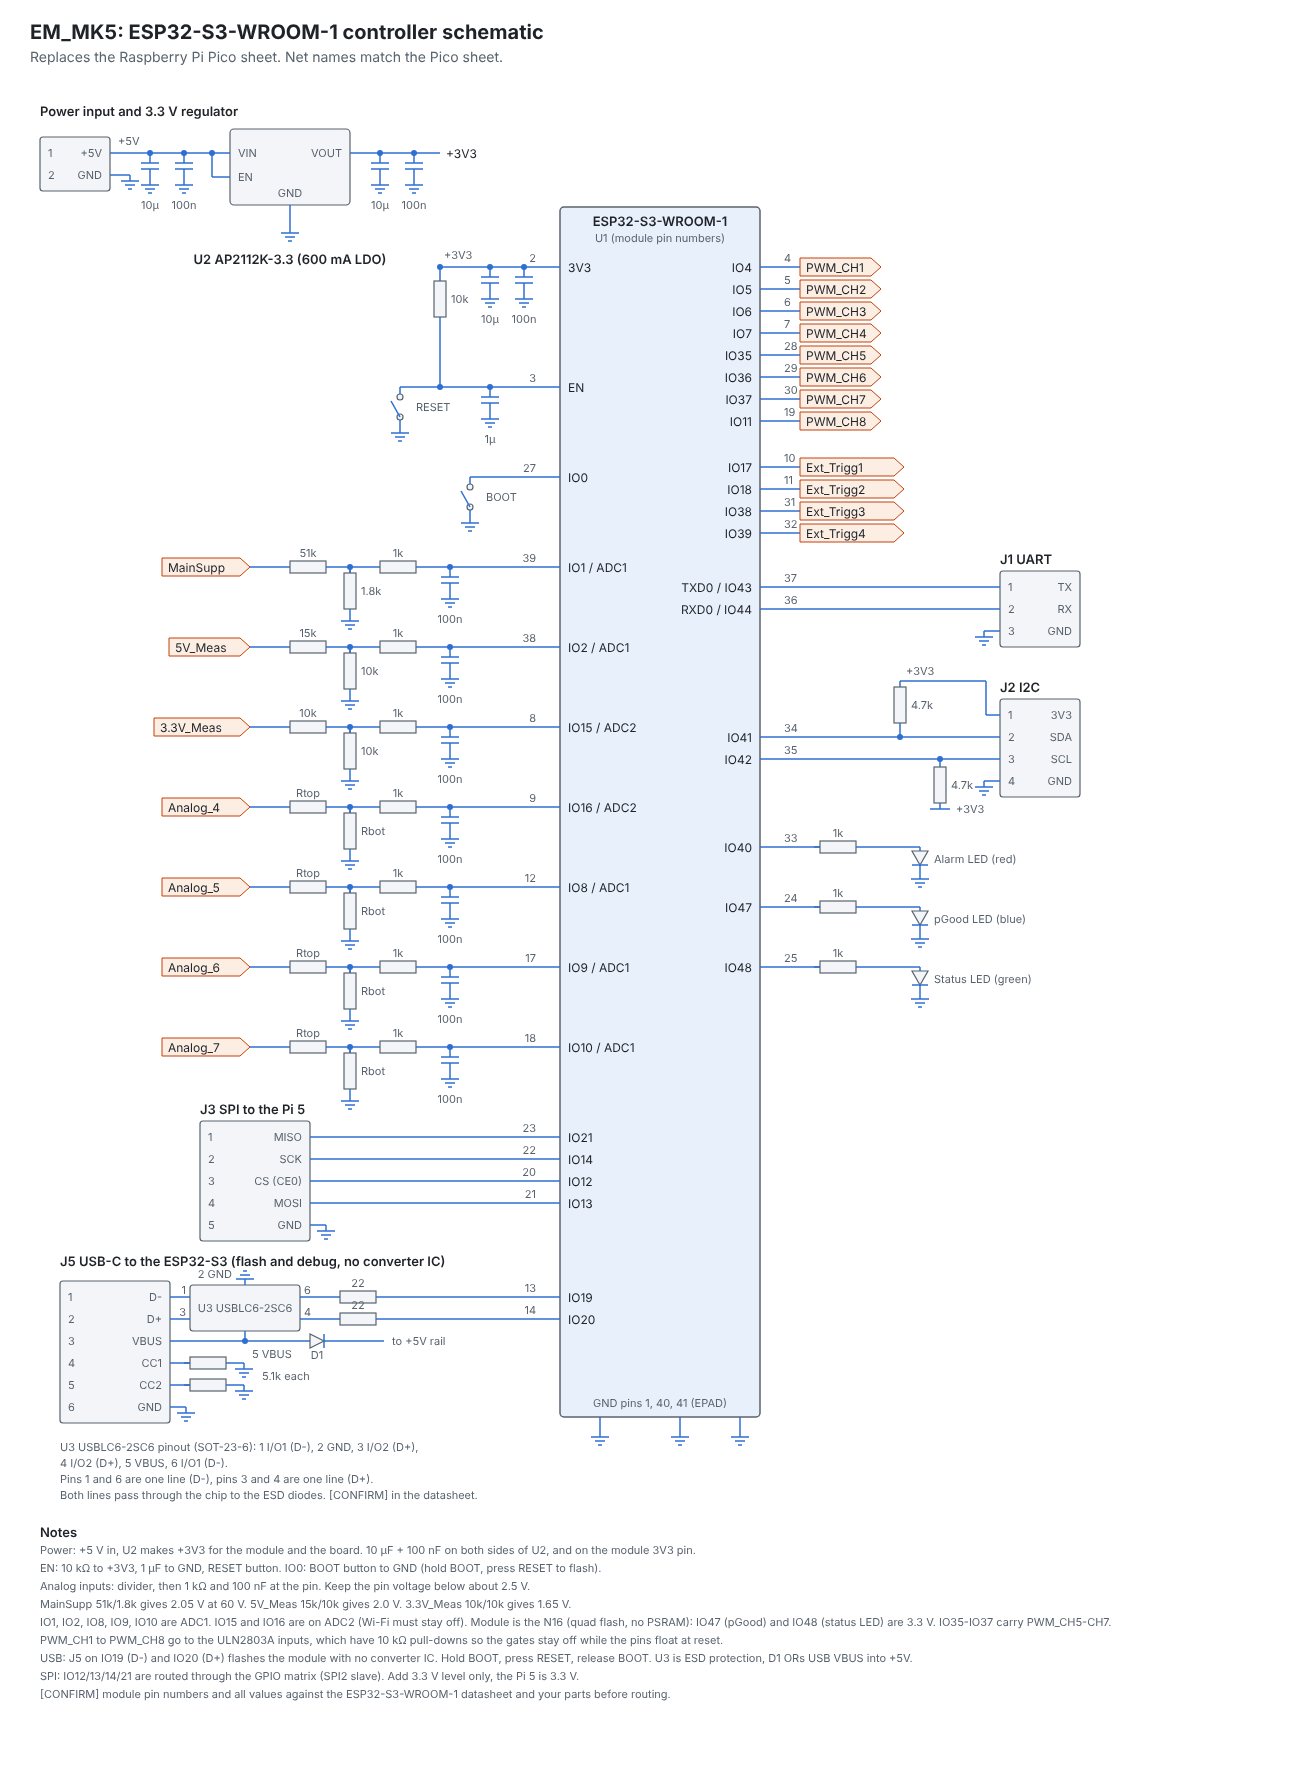
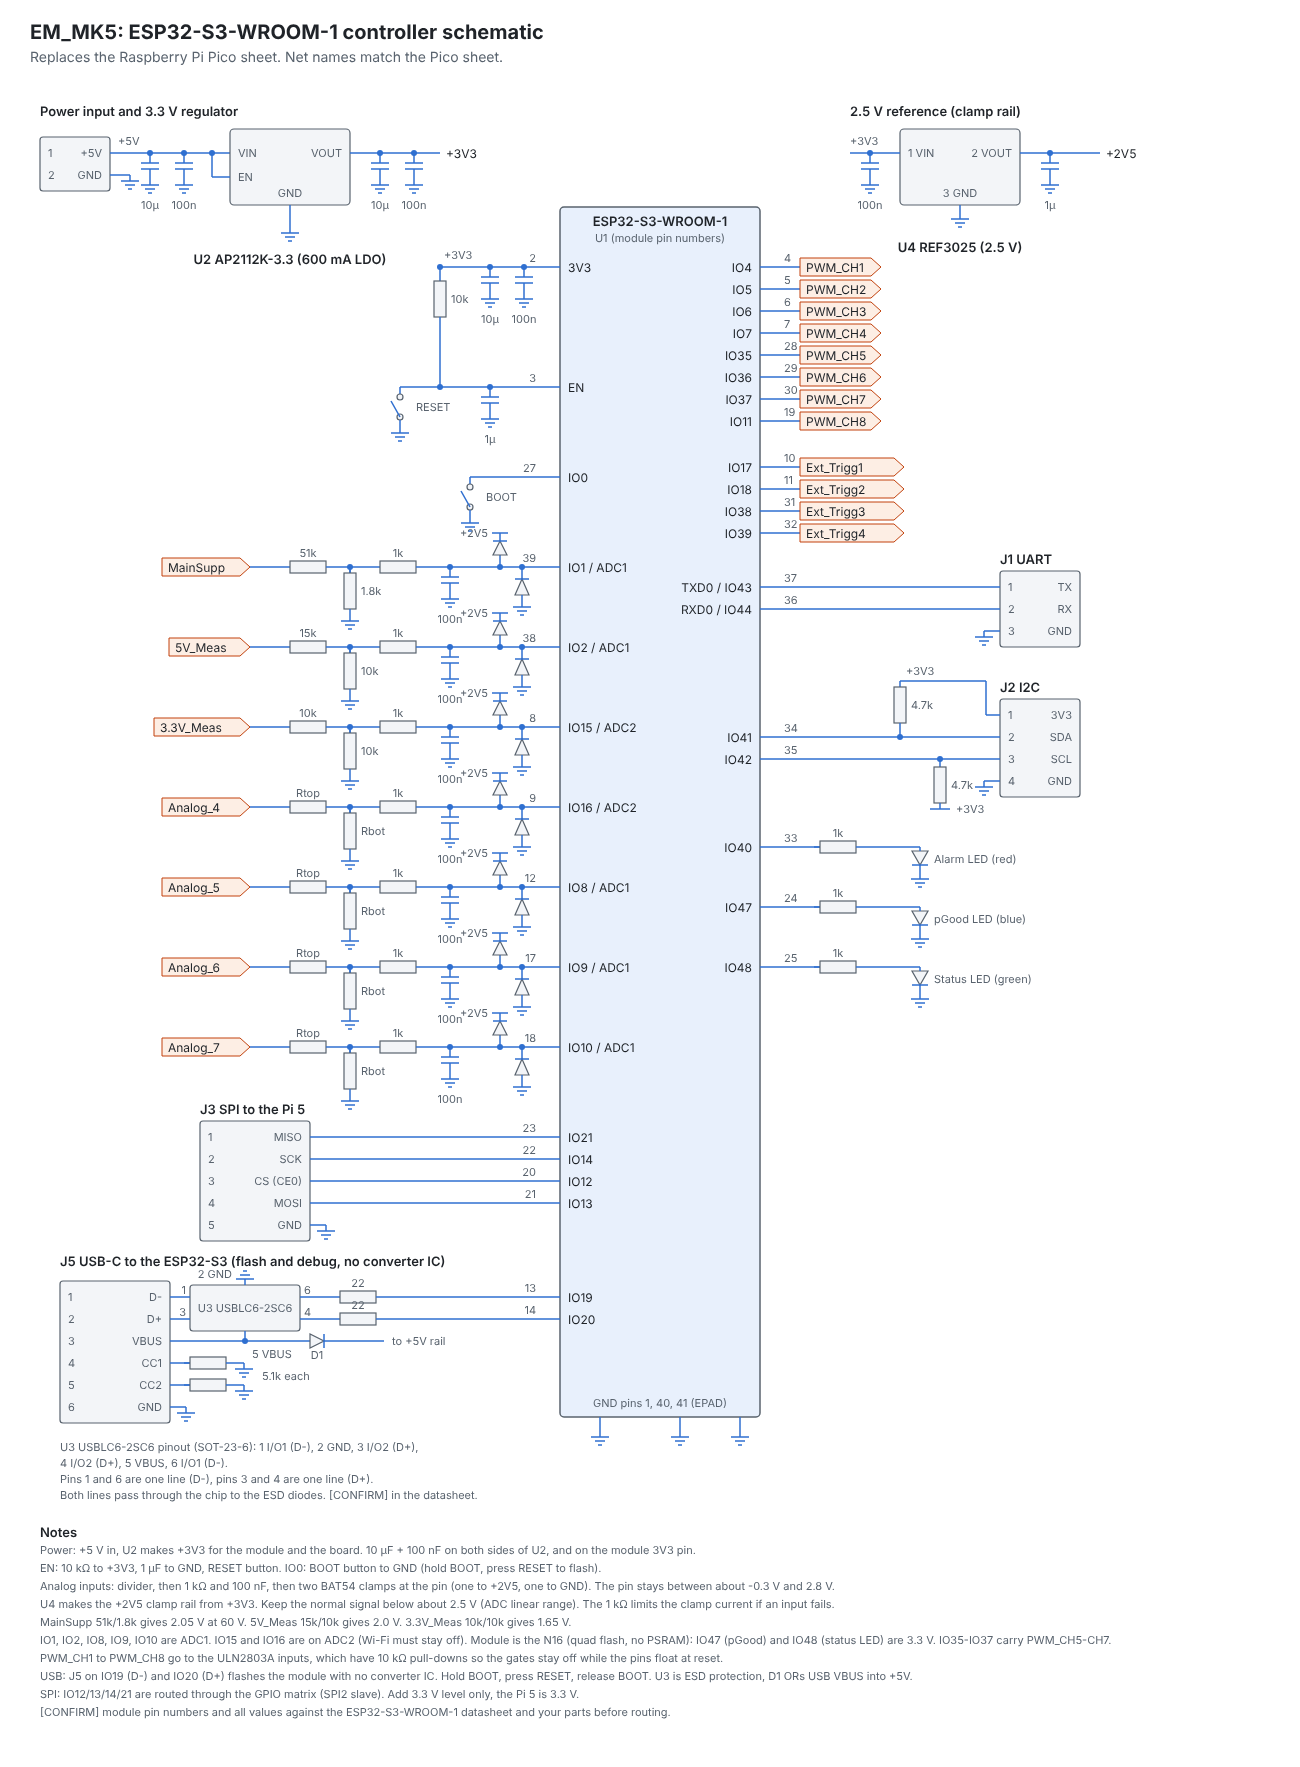
ESP32-S3 schematic: add REF3025 2.5 V clamp rail and BAT54 clamps on all analog inputs
Claude-Session: https://claude.ai/code/session_0174MNEmDaTV8DPD2QnVHENo

diff --git a/ESP32_S3_schematic.html b/ESP32_S3_schematic.html
@@ -203,6 +203,22 @@ svg{width:100%;max-width:1300px;height:auto;display:block;margin:0 auto}
 <line class="w" x1="445" y1="526" x2="455" y2="526"/>
 <line class="w" x1="448" y1="530" x2="452" y2="530"/>
 <text class="s" x="450" y="542" text-anchor="middle" dominant-baseline="central">100n</text>
+<circle class="d" cx="500" cy="490" r="3"/>
+<circle class="d" cx="522" cy="490" r="3"/>
+<line class="w" x1="522" y1="490" x2="522" y2="502"/>
+<polygon class="c" points="515,518 529,518 522,502"/>
+<line class="w" x1="515" y1="502" x2="529" y2="502"/>
+<line class="w" x1="522" y1="518" x2="522" y2="524"/>
+<line class="w" x1="522" y1="524" x2="522" y2="530"/>
+<line class="w" x1="513" y1="530" x2="531" y2="530"/>
+<line class="w" x1="517" y1="534" x2="527" y2="534"/>
+<line class="w" x1="520" y1="538" x2="524" y2="538"/>
+<line class="w" x1="500" y1="490" x2="500" y2="478"/>
+<polygon class="c" points="493,478 507,478 500,464"/>
+<line class="w" x1="493" y1="464" x2="507" y2="464"/>
+<line class="w" x1="500" y1="464" x2="500" y2="456"/>
+<line class="w" x1="492" y1="456" x2="508" y2="456"/>
+<text class="s" x="488" y="456" text-anchor="end" dominant-baseline="central">+2V5</text>
 <line class="w" x1="540" y1="570" x2="560" y2="570"/>
 <text class="t" x="568" y="570" text-anchor="start" dominant-baseline="central">IO2 / ADC1</text>
 <text class="s" x="536" y="561" text-anchor="end" dominant-baseline="central">38</text>
@@ -239,6 +255,22 @@ svg{width:100%;max-width:1300px;height:auto;display:block;margin:0 auto}
 <line class="w" x1="445" y1="606" x2="455" y2="606"/>
 <line class="w" x1="448" y1="610" x2="452" y2="610"/>
 <text class="s" x="450" y="622" text-anchor="middle" dominant-baseline="central">100n</text>
+<circle class="d" cx="500" cy="570" r="3"/>
+<circle class="d" cx="522" cy="570" r="3"/>
+<line class="w" x1="522" y1="570" x2="522" y2="582"/>
+<polygon class="c" points="515,598 529,598 522,582"/>
+<line class="w" x1="515" y1="582" x2="529" y2="582"/>
+<line class="w" x1="522" y1="598" x2="522" y2="604"/>
+<line class="w" x1="522" y1="604" x2="522" y2="610"/>
+<line class="w" x1="513" y1="610" x2="531" y2="610"/>
+<line class="w" x1="517" y1="614" x2="527" y2="614"/>
+<line class="w" x1="520" y1="618" x2="524" y2="618"/>
+<line class="w" x1="500" y1="570" x2="500" y2="558"/>
+<polygon class="c" points="493,558 507,558 500,544"/>
+<line class="w" x1="493" y1="544" x2="507" y2="544"/>
+<line class="w" x1="500" y1="544" x2="500" y2="536"/>
+<line class="w" x1="492" y1="536" x2="508" y2="536"/>
+<text class="s" x="488" y="536" text-anchor="end" dominant-baseline="central">+2V5</text>
 <line class="w" x1="540" y1="650" x2="560" y2="650"/>
 <text class="t" x="568" y="650" text-anchor="start" dominant-baseline="central">IO15 / ADC2</text>
 <text class="s" x="536" y="641" text-anchor="end" dominant-baseline="central">8</text>
@@ -275,6 +307,22 @@ svg{width:100%;max-width:1300px;height:auto;display:block;margin:0 auto}
 <line class="w" x1="445" y1="686" x2="455" y2="686"/>
 <line class="w" x1="448" y1="690" x2="452" y2="690"/>
 <text class="s" x="450" y="702" text-anchor="middle" dominant-baseline="central">100n</text>
+<circle class="d" cx="500" cy="650" r="3"/>
+<circle class="d" cx="522" cy="650" r="3"/>
+<line class="w" x1="522" y1="650" x2="522" y2="662"/>
+<polygon class="c" points="515,678 529,678 522,662"/>
+<line class="w" x1="515" y1="662" x2="529" y2="662"/>
+<line class="w" x1="522" y1="678" x2="522" y2="684"/>
+<line class="w" x1="522" y1="684" x2="522" y2="690"/>
+<line class="w" x1="513" y1="690" x2="531" y2="690"/>
+<line class="w" x1="517" y1="694" x2="527" y2="694"/>
+<line class="w" x1="520" y1="698" x2="524" y2="698"/>
+<line class="w" x1="500" y1="650" x2="500" y2="638"/>
+<polygon class="c" points="493,638 507,638 500,624"/>
+<line class="w" x1="493" y1="624" x2="507" y2="624"/>
+<line class="w" x1="500" y1="624" x2="500" y2="616"/>
+<line class="w" x1="492" y1="616" x2="508" y2="616"/>
+<text class="s" x="488" y="616" text-anchor="end" dominant-baseline="central">+2V5</text>
 <line class="w" x1="540" y1="730" x2="560" y2="730"/>
 <text class="t" x="568" y="730" text-anchor="start" dominant-baseline="central">IO16 / ADC2</text>
 <text class="s" x="536" y="721" text-anchor="end" dominant-baseline="central">9</text>
@@ -311,6 +359,57 @@ svg{width:100%;max-width:1300px;height:auto;display:block;margin:0 auto}
 <line class="w" x1="445" y1="766" x2="455" y2="766"/>
 <line class="w" x1="448" y1="770" x2="452" y2="770"/>
 <text class="s" x="450" y="782" text-anchor="middle" dominant-baseline="central">100n</text>
+<circle class="d" cx="500" cy="730" r="3"/>
+<circle class="d" cx="522" cy="730" r="3"/>
+<line class="w" x1="522" y1="730" x2="522" y2="742"/>
+<polygon class="c" points="515,758 529,758 522,742"/>
+<line class="w" x1="515" y1="742" x2="529" y2="742"/>
+<line class="w" x1="522" y1="758" x2="522" y2="764"/>
+<line class="w" x1="522" y1="764" x2="522" y2="770"/>
+<line class="w" x1="513" y1="770" x2="531" y2="770"/>
+<line class="w" x1="517" y1="774" x2="527" y2="774"/>
+<line class="w" x1="520" y1="778" x2="524" y2="778"/>
+<line class="w" x1="500" y1="730" x2="500" y2="718"/>
+<polygon class="c" points="493,718 507,718 500,704"/>
+<line class="w" x1="493" y1="704" x2="507" y2="704"/>
+<line class="w" x1="500" y1="704" x2="500" y2="696"/>
+<line class="w" x1="492" y1="696" x2="508" y2="696"/>
+<text class="s" x="488" y="696" text-anchor="end" dominant-baseline="central">+2V5</text>
+<text class="th" x="850" y="34" text-anchor="start" dominant-baseline="central">2.5 V reference (clamp rail)</text>
+<rect class="c" x="900" y="52" width="120" height="76" rx="4"/>
+<text class="s" x="908" y="76" text-anchor="start" dominant-baseline="central">1 VIN</text>
+<text class="s" x="1012" y="76" text-anchor="end" dominant-baseline="central">2 VOUT</text>
+<text class="s" x="960" y="116" text-anchor="middle" dominant-baseline="central">3 GND</text>
+<line class="w" x1="850" y1="76" x2="900" y2="76"/>
+<text class="s" x="850" y="64" text-anchor="start" dominant-baseline="central">+3V3</text>
+<circle class="d" cx="870" cy="76" r="3"/>
+<line class="w" x1="870" y1="76" x2="870" y2="86"/>
+<line class="w" x1="861" y1="86" x2="879" y2="86"/>
+<line class="w" x1="861" y1="92" x2="879" y2="92"/>
+<line class="w" x1="870" y1="92" x2="870" y2="102"/>
+<line class="w" x1="870" y1="102" x2="870" y2="108"/>
+<line class="w" x1="861" y1="108" x2="879" y2="108"/>
+<line class="w" x1="865" y1="112" x2="875" y2="112"/>
+<line class="w" x1="868" y1="116" x2="872" y2="116"/>
+<text class="s" x="870" y="128" text-anchor="middle" dominant-baseline="central">100n</text>
+<line class="w" x1="960" y1="128" x2="960" y2="136"/>
+<line class="w" x1="960" y1="136" x2="960" y2="142"/>
+<line class="w" x1="951" y1="142" x2="969" y2="142"/>
+<line class="w" x1="955" y1="146" x2="965" y2="146"/>
+<line class="w" x1="958" y1="150" x2="962" y2="150"/>
+<line class="w" x1="1020" y1="76" x2="1100" y2="76"/>
+<circle class="d" cx="1050" cy="76" r="3"/>
+<line class="w" x1="1050" y1="76" x2="1050" y2="86"/>
+<line class="w" x1="1041" y1="86" x2="1059" y2="86"/>
+<line class="w" x1="1041" y1="92" x2="1059" y2="92"/>
+<line class="w" x1="1050" y1="92" x2="1050" y2="102"/>
+<line class="w" x1="1050" y1="102" x2="1050" y2="108"/>
+<line class="w" x1="1041" y1="108" x2="1059" y2="108"/>
+<line class="w" x1="1045" y1="112" x2="1055" y2="112"/>
+<line class="w" x1="1048" y1="116" x2="1052" y2="116"/>
+<text class="s" x="1050" y="128" text-anchor="middle" dominant-baseline="central">1µ</text>
+<text class="t" x="1106" y="76" text-anchor="start" dominant-baseline="central">+2V5</text>
+<text class="th" x="960" y="170" text-anchor="middle" dominant-baseline="central">U4 REF3025 (2.5 V)</text>
 <line class="w" x1="540" y1="810" x2="560" y2="810"/>
 <text class="t" x="568" y="810" text-anchor="start" dominant-baseline="central">IO8 / ADC1</text>
 <text class="s" x="536" y="801" text-anchor="end" dominant-baseline="central">12</text>
@@ -347,6 +446,22 @@ svg{width:100%;max-width:1300px;height:auto;display:block;margin:0 auto}
 <line class="w" x1="445" y1="846" x2="455" y2="846"/>
 <line class="w" x1="448" y1="850" x2="452" y2="850"/>
 <text class="s" x="450" y="862" text-anchor="middle" dominant-baseline="central">100n</text>
+<circle class="d" cx="500" cy="810" r="3"/>
+<circle class="d" cx="522" cy="810" r="3"/>
+<line class="w" x1="522" y1="810" x2="522" y2="822"/>
+<polygon class="c" points="515,838 529,838 522,822"/>
+<line class="w" x1="515" y1="822" x2="529" y2="822"/>
+<line class="w" x1="522" y1="838" x2="522" y2="844"/>
+<line class="w" x1="522" y1="844" x2="522" y2="850"/>
+<line class="w" x1="513" y1="850" x2="531" y2="850"/>
+<line class="w" x1="517" y1="854" x2="527" y2="854"/>
+<line class="w" x1="520" y1="858" x2="524" y2="858"/>
+<line class="w" x1="500" y1="810" x2="500" y2="798"/>
+<polygon class="c" points="493,798 507,798 500,784"/>
+<line class="w" x1="493" y1="784" x2="507" y2="784"/>
+<line class="w" x1="500" y1="784" x2="500" y2="776"/>
+<line class="w" x1="492" y1="776" x2="508" y2="776"/>
+<text class="s" x="488" y="776" text-anchor="end" dominant-baseline="central">+2V5</text>
 <line class="w" x1="540" y1="890" x2="560" y2="890"/>
 <text class="t" x="568" y="890" text-anchor="start" dominant-baseline="central">IO9 / ADC1</text>
 <text class="s" x="536" y="881" text-anchor="end" dominant-baseline="central">17</text>
@@ -383,6 +498,22 @@ svg{width:100%;max-width:1300px;height:auto;display:block;margin:0 auto}
 <line class="w" x1="445" y1="926" x2="455" y2="926"/>
 <line class="w" x1="448" y1="930" x2="452" y2="930"/>
 <text class="s" x="450" y="942" text-anchor="middle" dominant-baseline="central">100n</text>
+<circle class="d" cx="500" cy="890" r="3"/>
+<circle class="d" cx="522" cy="890" r="3"/>
+<line class="w" x1="522" y1="890" x2="522" y2="902"/>
+<polygon class="c" points="515,918 529,918 522,902"/>
+<line class="w" x1="515" y1="902" x2="529" y2="902"/>
+<line class="w" x1="522" y1="918" x2="522" y2="924"/>
+<line class="w" x1="522" y1="924" x2="522" y2="930"/>
+<line class="w" x1="513" y1="930" x2="531" y2="930"/>
+<line class="w" x1="517" y1="934" x2="527" y2="934"/>
+<line class="w" x1="520" y1="938" x2="524" y2="938"/>
+<line class="w" x1="500" y1="890" x2="500" y2="878"/>
+<polygon class="c" points="493,878 507,878 500,864"/>
+<line class="w" x1="493" y1="864" x2="507" y2="864"/>
+<line class="w" x1="500" y1="864" x2="500" y2="856"/>
+<line class="w" x1="492" y1="856" x2="508" y2="856"/>
+<text class="s" x="488" y="856" text-anchor="end" dominant-baseline="central">+2V5</text>
 <line class="w" x1="540" y1="970" x2="560" y2="970"/>
 <text class="t" x="568" y="970" text-anchor="start" dominant-baseline="central">IO10 / ADC1</text>
 <text class="s" x="536" y="961" text-anchor="end" dominant-baseline="central">18</text>
@@ -419,6 +550,22 @@ svg{width:100%;max-width:1300px;height:auto;display:block;margin:0 auto}
 <line class="w" x1="445" y1="1006" x2="455" y2="1006"/>
 <line class="w" x1="448" y1="1010" x2="452" y2="1010"/>
 <text class="s" x="450" y="1022" text-anchor="middle" dominant-baseline="central">100n</text>
+<circle class="d" cx="500" cy="970" r="3"/>
+<circle class="d" cx="522" cy="970" r="3"/>
+<line class="w" x1="522" y1="970" x2="522" y2="982"/>
+<polygon class="c" points="515,998 529,998 522,982"/>
+<line class="w" x1="515" y1="982" x2="529" y2="982"/>
+<line class="w" x1="522" y1="998" x2="522" y2="1004"/>
+<line class="w" x1="522" y1="1004" x2="522" y2="1010"/>
+<line class="w" x1="513" y1="1010" x2="531" y2="1010"/>
+<line class="w" x1="517" y1="1014" x2="527" y2="1014"/>
+<line class="w" x1="520" y1="1018" x2="524" y2="1018"/>
+<line class="w" x1="500" y1="970" x2="500" y2="958"/>
+<polygon class="c" points="493,958 507,958 500,944"/>
+<line class="w" x1="493" y1="944" x2="507" y2="944"/>
+<line class="w" x1="500" y1="944" x2="500" y2="936"/>
+<line class="w" x1="492" y1="936" x2="508" y2="936"/>
+<text class="s" x="488" y="936" text-anchor="end" dominant-baseline="central">+2V5</text>
 <g transform="translate(0,250)">
 <rect class="c" x="200" y="794" width="110" height="120" rx="3"/>
 <text class="th" x="200" y="782" text-anchor="start" dominant-baseline="central">J3 SPI to the Pi 5</text>
@@ -732,10 +879,11 @@ svg{width:100%;max-width:1300px;height:auto;display:block;margin:0 auto}
 <text class="th" x="40" y="1455" text-anchor="start" dominant-baseline="central">Notes</text>
 <text class="s" x="40" y="1473" text-anchor="start" dominant-baseline="central">Power: +5 V in, U2 makes +3V3 for the module and the board. 10 µF + 100 nF on both sides of U2, and on the module 3V3 pin.</text>
 <text class="s" x="40" y="1491" text-anchor="start" dominant-baseline="central">EN: 10 kΩ to +3V3, 1 µF to GND, RESET button. IO0: BOOT button to GND (hold BOOT, press RESET to flash).</text>
-<text class="s" x="40" y="1509" text-anchor="start" dominant-baseline="central">Analog inputs: divider, then 1 kΩ and 100 nF at the pin. Keep the pin voltage below about 2.5 V.</text>
-<text class="s" x="40" y="1527" text-anchor="start" dominant-baseline="central">MainSupp 51k/1.8k gives 2.05 V at 60 V. 5V_Meas 15k/10k gives 2.0 V. 3.3V_Meas 10k/10k gives 1.65 V.</text>
-<text class="s" x="40" y="1545" text-anchor="start" dominant-baseline="central">IO1, IO2, IO8, IO9, IO10 are ADC1. IO15 and IO16 are on ADC2 (Wi-Fi must stay off). Module is the N16 (quad flash, no PSRAM): IO47 (pGood) and IO48 (status LED) are 3.3 V. IO35-IO37 carry PWM_CH5-CH7.</text>
-<text class="s" x="40" y="1563" text-anchor="start" dominant-baseline="central">PWM_CH1 to PWM_CH8 go to the ULN2803A inputs, which have 10 kΩ pull-downs so the gates stay off while the pins float at reset.</text>
-<text class="s" x="40" y="1581" text-anchor="start" dominant-baseline="central">USB: J5 on IO19 (D-) and IO20 (D+) flashes the module with no converter IC. Hold BOOT, press RESET, release BOOT. U3 is ESD protection, D1 ORs USB VBUS into +5V.</text>
-<text class="s" x="40" y="1599" text-anchor="start" dominant-baseline="central">SPI: IO12/13/14/21 are routed through the GPIO matrix (SPI2 slave). Add 3.3 V level only, the Pi 5 is 3.3 V.</text>
-<text class="s" x="40" y="1617" text-anchor="start" dominant-baseline="central">[CONFIRM] module pin numbers and all values against the ESP32-S3-WROOM-1 datasheet and your parts before routing.</text></svg></body></html>
+<text class="s" x="40" y="1509" text-anchor="start" dominant-baseline="central">Analog inputs: divider, then 1 kΩ and 100 nF, then two BAT54 clamps at the pin (one to +2V5, one to GND). The pin stays between about -0.3 V and 2.8 V.</text>
+<text class="s" x="40" y="1527" text-anchor="start" dominant-baseline="central">U4 makes the +2V5 clamp rail from +3V3. Keep the normal signal below about 2.5 V (ADC linear range). The 1 kΩ limits the clamp current if an input fails.</text>
+<text class="s" x="40" y="1545" text-anchor="start" dominant-baseline="central">MainSupp 51k/1.8k gives 2.05 V at 60 V. 5V_Meas 15k/10k gives 2.0 V. 3.3V_Meas 10k/10k gives 1.65 V.</text>
+<text class="s" x="40" y="1563" text-anchor="start" dominant-baseline="central">IO1, IO2, IO8, IO9, IO10 are ADC1. IO15 and IO16 are on ADC2 (Wi-Fi must stay off). Module is the N16 (quad flash, no PSRAM): IO47 (pGood) and IO48 (status LED) are 3.3 V. IO35-IO37 carry PWM_CH5-CH7.</text>
+<text class="s" x="40" y="1581" text-anchor="start" dominant-baseline="central">PWM_CH1 to PWM_CH8 go to the ULN2803A inputs, which have 10 kΩ pull-downs so the gates stay off while the pins float at reset.</text>
+<text class="s" x="40" y="1599" text-anchor="start" dominant-baseline="central">USB: J5 on IO19 (D-) and IO20 (D+) flashes the module with no converter IC. Hold BOOT, press RESET, release BOOT. U3 is ESD protection, D1 ORs USB VBUS into +5V.</text>
+<text class="s" x="40" y="1617" text-anchor="start" dominant-baseline="central">SPI: IO12/13/14/21 are routed through the GPIO matrix (SPI2 slave). Add 3.3 V level only, the Pi 5 is 3.3 V.</text>
+<text class="s" x="40" y="1635" text-anchor="start" dominant-baseline="central">[CONFIRM] module pin numbers and all values against the ESP32-S3-WROOM-1 datasheet and your parts before routing.</text></svg></body></html>

diff --git a/ESP32_S3_pinout.md b/ESP32_S3_pinout.md
@@ -36,3 +36,4 @@ ESP32-S3-WROOM-1 module datasheet before routing the board.
 - **Boot:** pins float during reset. The 10 kΩ pull-downs on the ULN2803 inputs keep the gates off.
 - IO48 (module pin 25): Status LED (green) with 1 kΩ. Module is the N16 (quad flash, no PSRAM), so IO47/IO48 are 3.3 V.
 - New analog inputs on ADC1: Analog_5 = IO8 (pin 12), Analog_6 = IO9 (pin 17), Analog_7 = IO10 (pin 18). Each has a divider, 1 kΩ and 100 nF, below about 2.5 V.
+- Analog protection: every analog input has 1 kΩ, 100 nF and two BAT54 clamps at the pin (one to +2V5, one to GND). U4 REF3025 makes the +2V5 rail from +3V3 (1 µF out).
